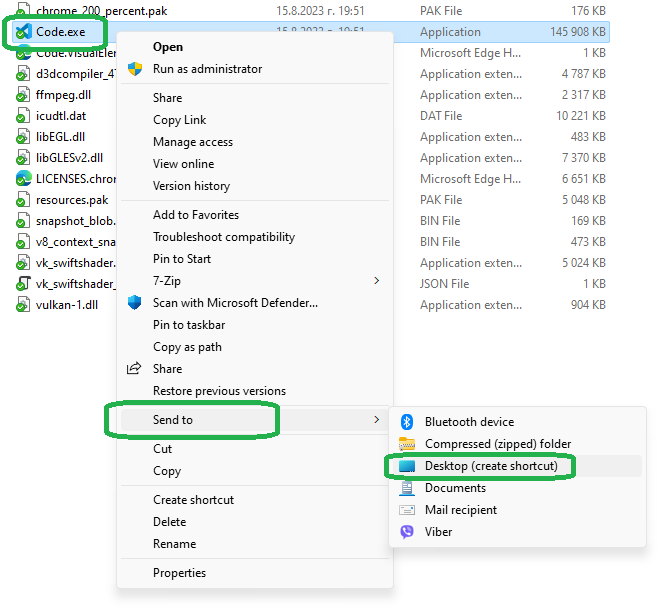
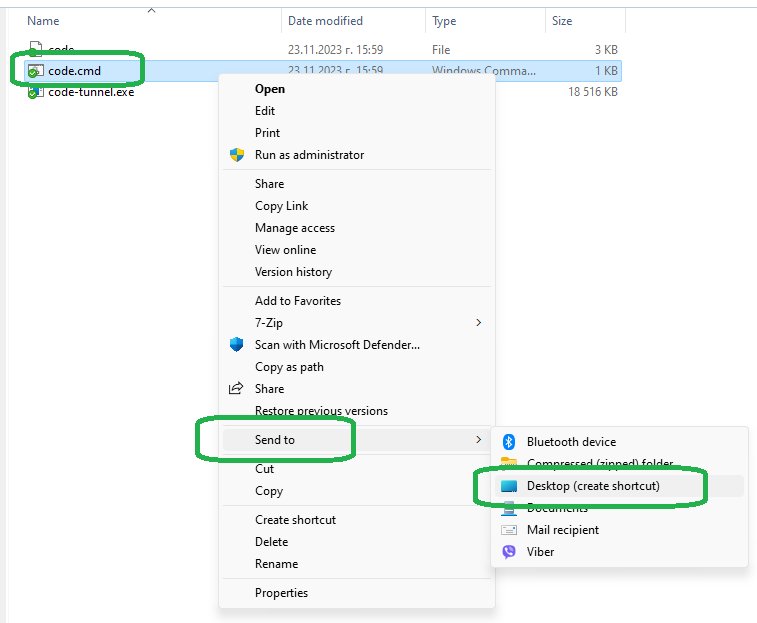
Update the Visual Studio Code portable tutorial
* The tutorial was incorrectly stating that `Code.exe`
    needs to be launched, while the user should run one
    of the scripts in the bin/ directory instead.
    The incorrect texts were corrected and a new section on
    what needs to be launched has been added.

Changed region(s): [[0.0, 0.0, 0.9062, 0.964], [0.5625, 0.6841, 0.9375, 0.9018], [0.1875, 0.9329, 0.3125, 0.9951]]

diff --git a/Visual Studio Code portable/README.md b/Visual Studio Code portable/README.md
@@ -46,7 +46,7 @@ and also keep an older version at:
 
 This approach has the drawback that every time you download a new version you must also update all shortcuts, the `PATH` variable, etc.
 
-A possible way to work around those limitations is to create a soft link and make it point to the current version. In the example below we have named the soft link `current`. You point all shortcuts to the soft link instead of the actual directory, which contains the files. You also use that for the `PATH` variable. After each update, you alter the soft link to point to the newly-downloaded version. As all shortcuts and `PATH` use the soft link, they will not need to be updated manually. The directory structure may look like this:
+A possible way to work around those limitations is to create a soft link and make it point to the current version. In the example below we have named the soft link `current`. Then we'll use the soft link, instead of the actual directory, when adding Visual Studio Code to the `PATH` variable or when creating shortcuts. After each update we'll simply alter the soft link to point to the newly-downloaded version. As all shortcuts and `PATH` use the soft link, they will not need to be updated manually. The directory structure may look like this:
 
 ```
 C:\
@@ -57,8 +57,6 @@ C:\
           ├─── VSCode-win32-x64-1.83.1
           └─── VSCode-win32-x64-1.84.2
 ```
-
-And, respectively, `C:\Tools\vscode\current` should be added to `PATH`, instead of the actual directory.
 
 To create a new soft link, refer to the section relevant to your system:
 
@@ -89,24 +87,43 @@ cd \Tools\vscode
 mklink /d current VSCode-win32-x64-1.84.2
 ```
 
+## How to run Visual Studio Code
+
+If you want to start Visual Studio Code, make sure to start one of the scripts in the `bin/` directory, instead of `Code.exe` itself, which is located in the installation directory. Otherwise you may start getting errors like these:
+
+![Errors in the console](errors.png)
+
+### Linux
+
+Let's assume you have installed Visual Studio Code in `/portable/vscode`.
+
+You will need to run the bash script `/portable/vscode/bin/code`
+
+### Windows
+
+Let's assume you have installed Visual Studio Code in `C:\Tools\vscode`.
+
+You will need to run the script `C:\Tools\vscode\bin\code.cmd`
+
 ## Recommended steps
 
 ### Add Visual Studio Code to PATH
 
-Add Visual Studio Code's installation directory to the PATH environment variable.
-
 This will make it easier to launch it from a command interpreter, to add it to the configuration of different tools, etc.
 
-[You can find our guide on how to do that here](../Environment%20variables/).
+[You can find our guide on how to edit the `PATH` variable here](../Environment%20variables/).
+
+IMPORTANT: Make sure to add the `bin/` directory to the path, instead of the installation directory itself, because otherwise you may get errors as described in the previous section.
 
 ## Optional steps
 
 ### I want to have a shortcut to Visual Studio Code on my desktop in Windows
 
 1. Go to the installation directory.
-2. Right click Visual Studio Code's executable (`Code.exe`).
-3. If you are on Windows 11, choose `Show more options` from the context menu.
-4. Choose `Send To` > `Desktop (create shortcut)`.
+1. Enter the `bin\` subdirectory.
+1. Right click the `code.cmd` script.
+1. If you are on Windows 11, choose `Show more options` from the context menu.
+1. Choose `Send To` > `Desktop (create shortcut)`.
 
 ![How to create a desktop shortcut in Windows](desktop-shortcut.png)
 
@@ -119,7 +136,7 @@ This will make it easier to launch it from a command interpreter, to add it to t
 1. Right-click anywhere in the blank space.
 1. Choose `New` > `Shortcut` from the context menu.
 1. In the "Create shortcut" dialog click the `[Browse]` button.
-1. Navigate to the installation directory and select Visual Studio Code's executable (`Code.exe`). Press the `[OK]` button and finish the final steps of the shortcut creation wizard.
+1. Navigate to the installation directory, then to `bin\` and select the `code.cmd` script. Press the `[OK]` button and finish the final steps of the shortcut creation wizard.
 
 <div id="update" />
 
